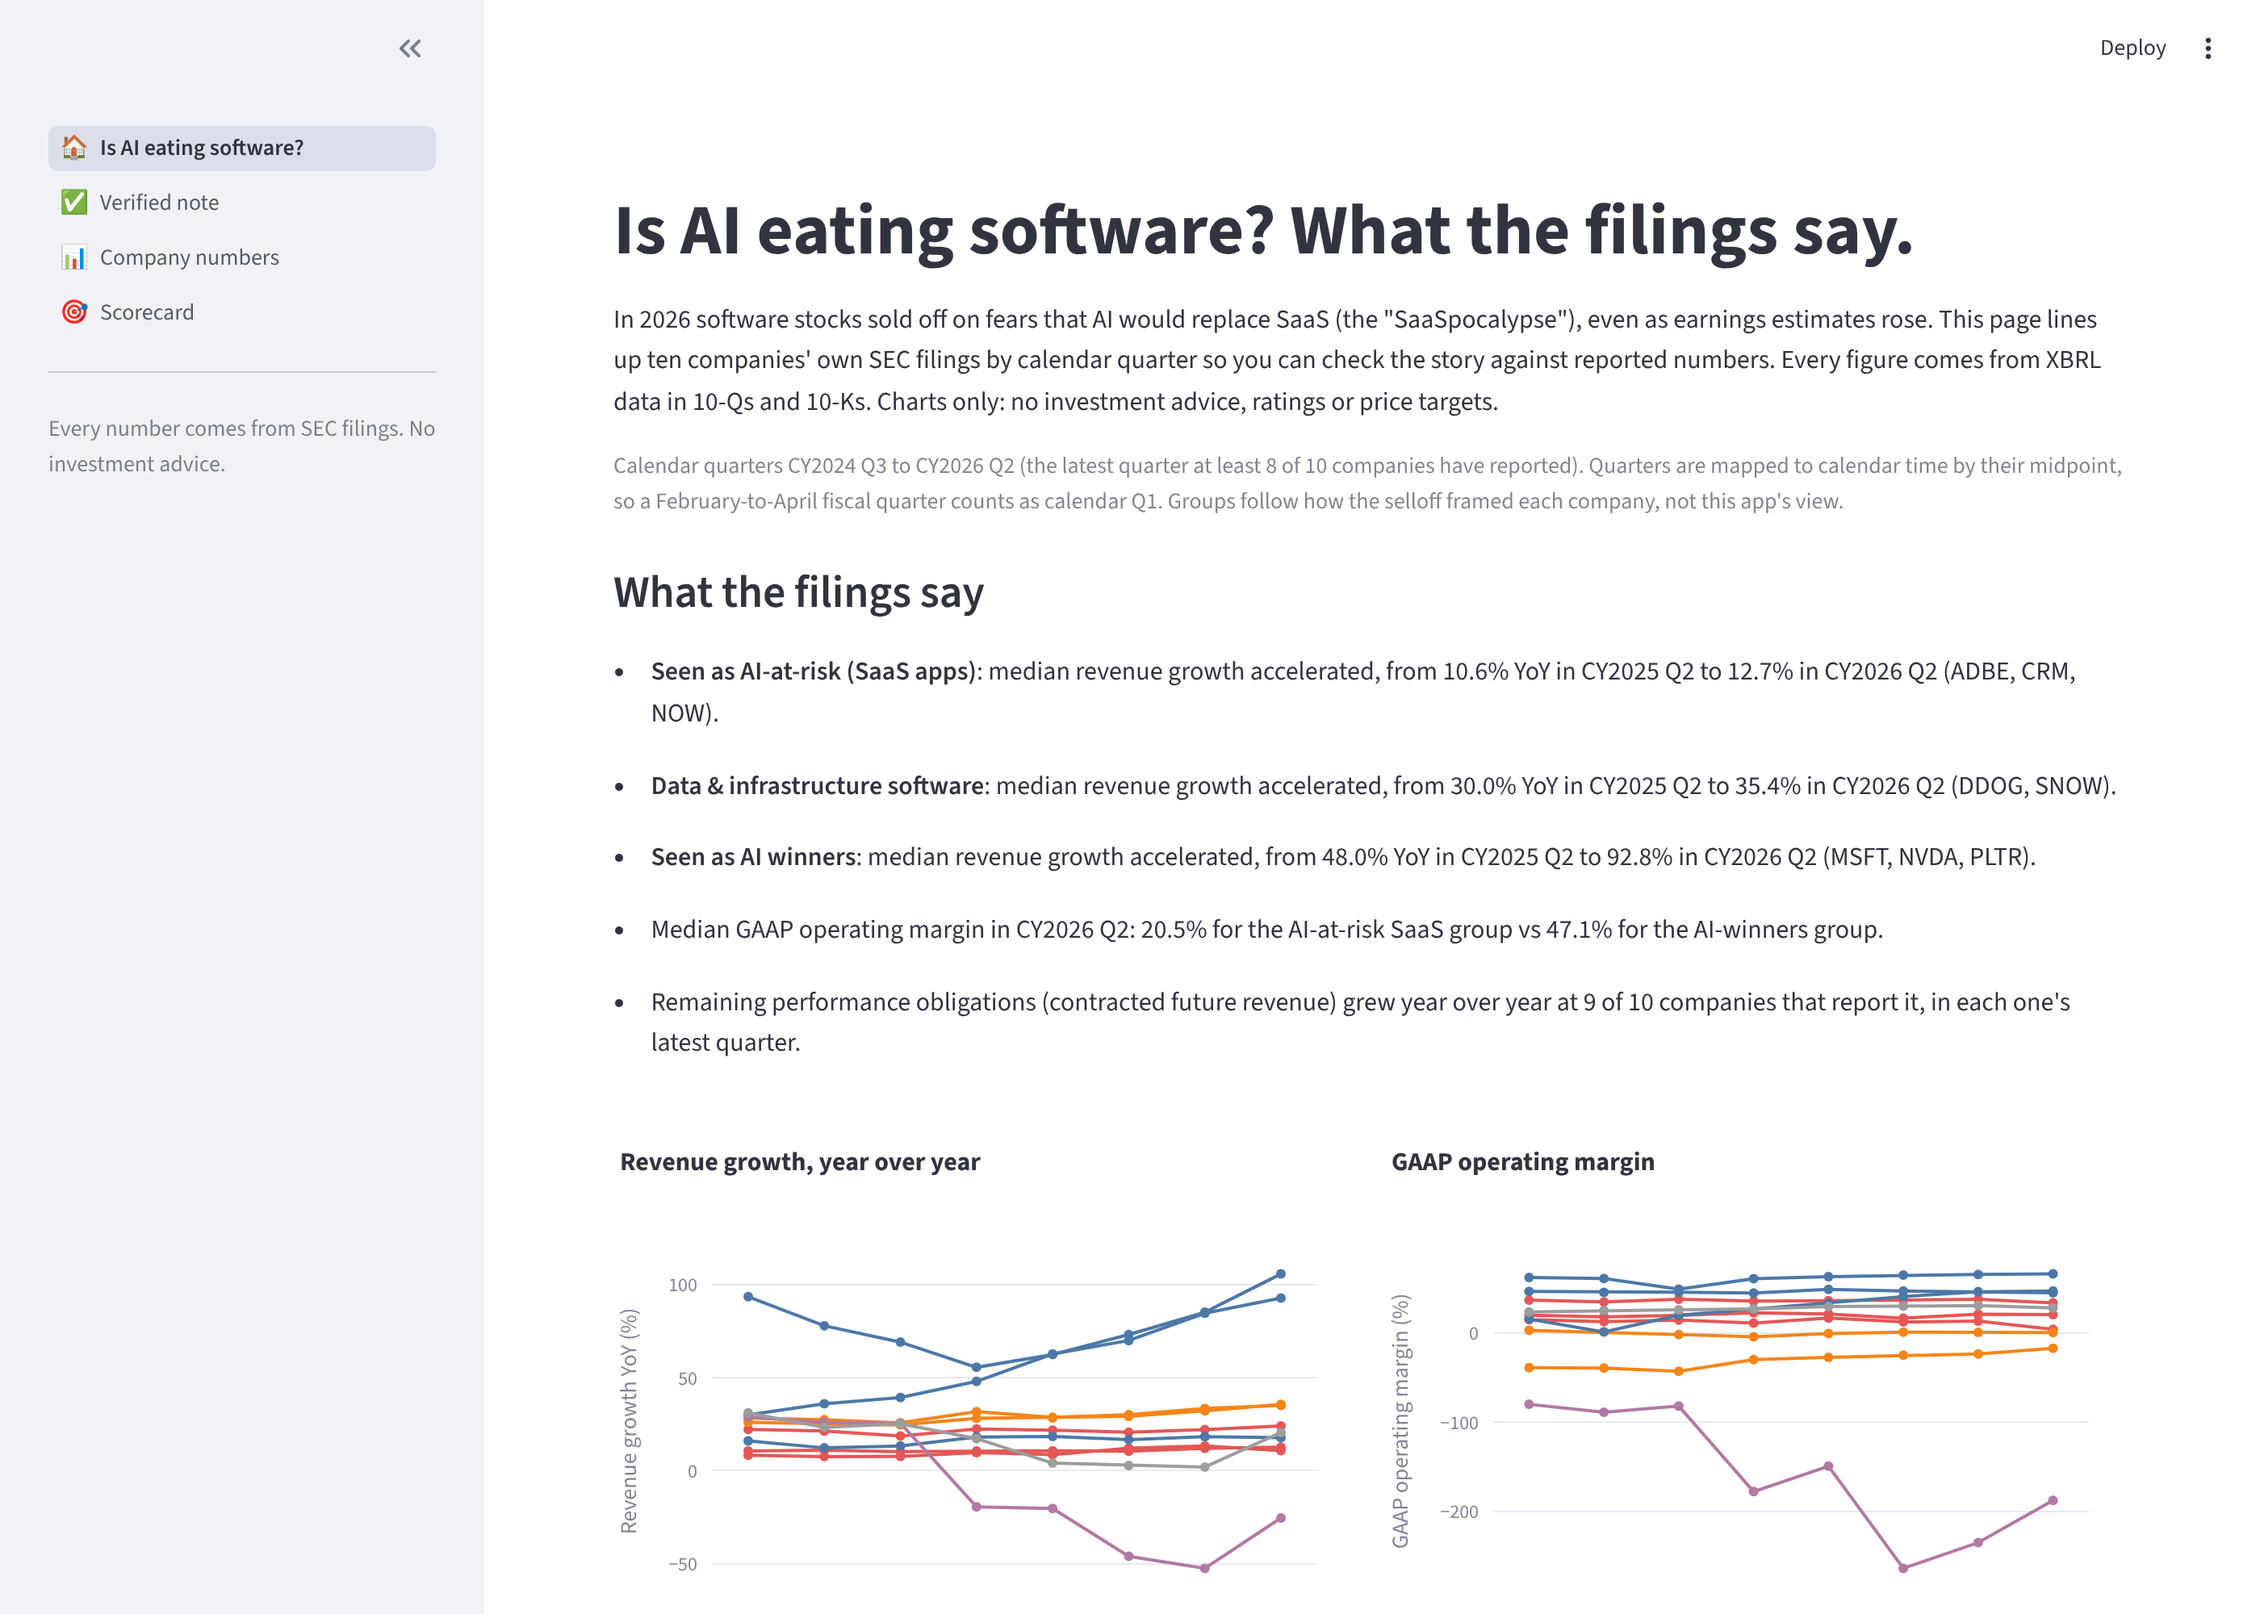
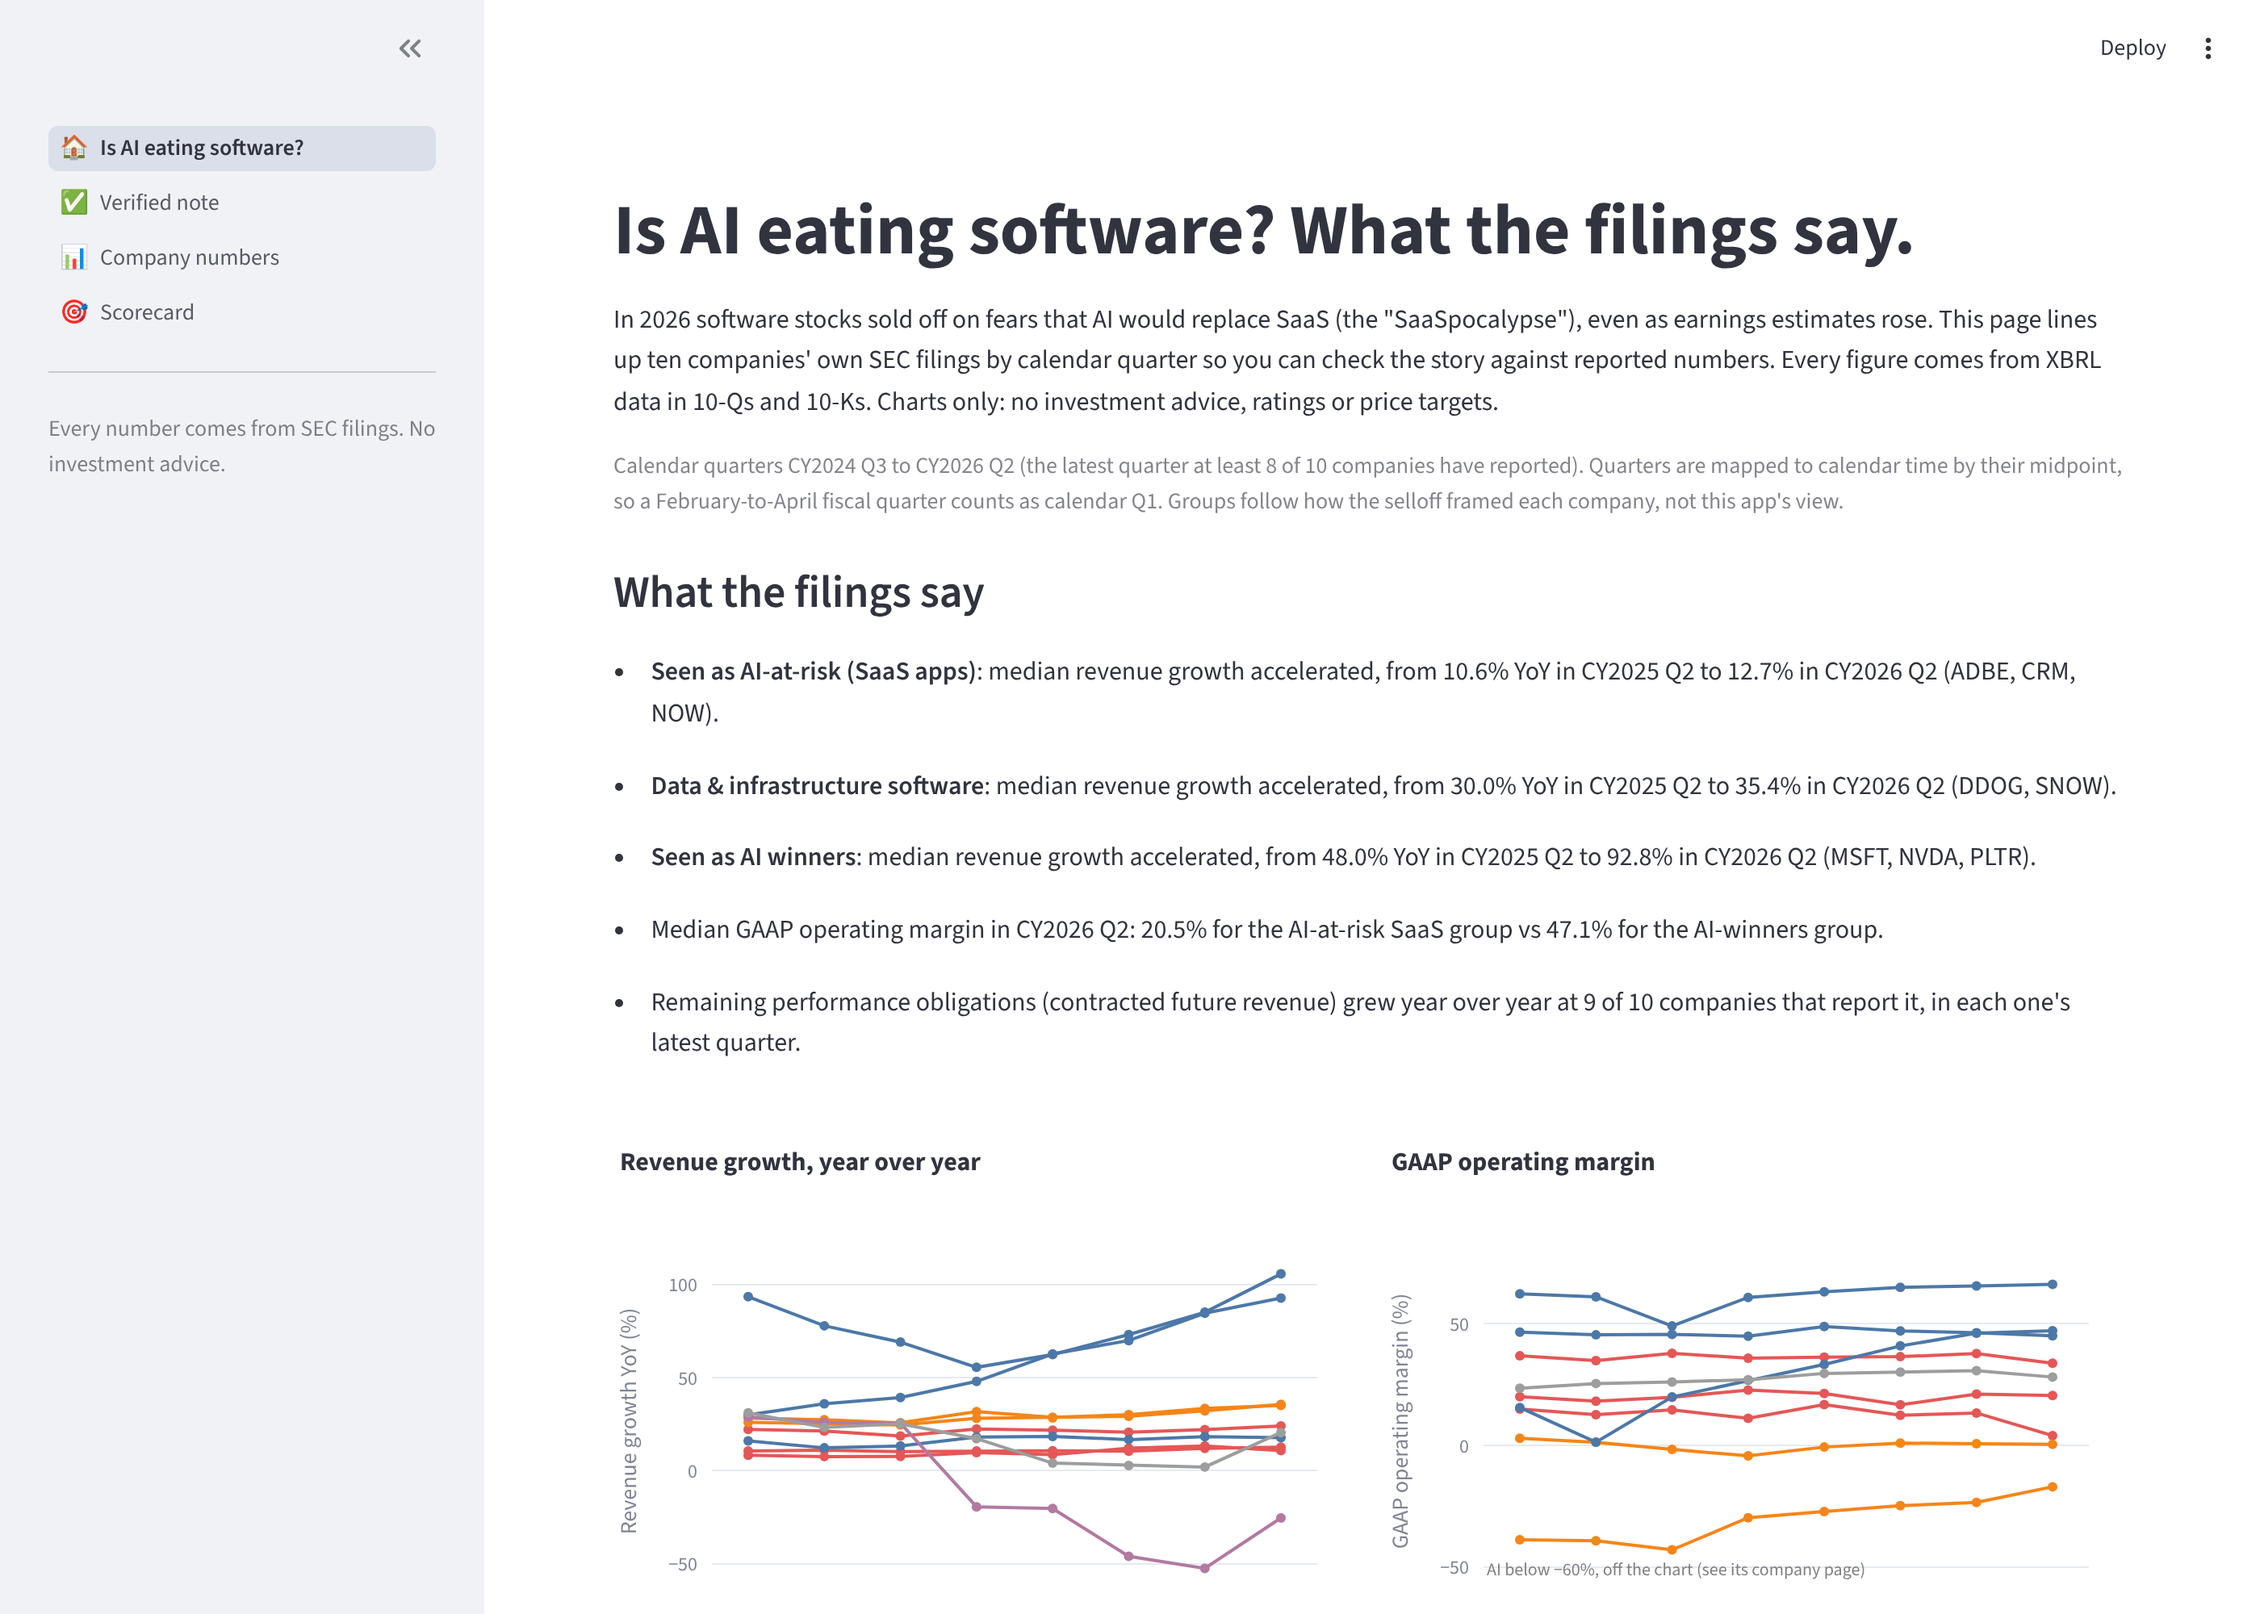
Milestone 4 complete: scorecard/note page polish, screenshots, README deploy notes
Claude-Session: https://claude.ai/code/session_01S9fLmpKsRyZa7ZCu8gw1hq

Changed region(s): [[0.6525, 0.775, 0.9321, 0.992]]

diff --git a/pages/scorecard.py b/pages/scorecard.py
@@ -45,11 +45,14 @@ inj_total = inj.injected.sum()
 overall_catch = inj.caught.sum() / inj_total if inj_total else None
 
 c1, c2, c3, c4 = st.columns(4)
-c1.metric("Company-quarters", r["company_quarters"], f"{len(r['tickers'])} tickers", delta_color="off")
-c2.metric("Numeric claims verified", f"{r['numeric']['verified_pct']}%", f"of {r['numeric']['claims']}", delta_color="off")
-c3.metric("Quotes matched verbatim", f"{r['quote']['match_pct']}%", f"of {r['quote']['claims']}", delta_color="off")
-c4.metric("Injected errors caught", f"{overall_catch:.1%}" if overall_catch is not None else "—",
-          f"of {inj_total}", delta_color="off")
+c1.metric("Company-quarters", r["company_quarters"])
+c1.caption(f"{len(r['tickers'])} tickers × last 5 quarters")
+c2.metric("Numeric claims verified", f"{r['numeric']['verified_pct']}%")
+c2.caption(f"of {r['numeric']['claims']} numeric claims")
+c3.metric("Quotes matched verbatim", f"{r['quote']['match_pct']}%")
+c3.caption(f"of {r['quote']['claims']} quotes")
+c4.metric("Injected errors caught", f"{overall_catch:.1%}" if overall_catch is not None else "—")
+c4.caption(f"of {inj_total} injected errors")
 st.caption(f"{r['claims']} claims in total: " + ", ".join(f"{v} {k}" for k, v in r["status_counts"].items()) + ".")
 
 st.subheader("Numeric accuracy")
@@ -64,7 +67,10 @@ with b:
     fig = px.bar(df, x="fye_group", y="verified_pct", text="claims", range_y=[0, 100],
                  labels={"fye_group": "", "verified_pct": "% verified"}, title="By fiscal calendar (bar label = claims)")
     st.plotly_chart(fig, width="stretch")
-st.dataframe(pd.DataFrame(r["numeric_q4_vs_other"]).rename(columns={"q": "quarter type"}), hide_index=True, width="stretch")
+RENAME = {"q": "quarter type", "claims": "claims", "verified_pct": "verified %", "mismatch_pct": "mismatch %",
+          "unsupported_pct": "unsupported %"}
+st.dataframe(pd.DataFrame(r["numeric_q4_vs_other"]).rename(columns=RENAME), hide_index=True, width="stretch")
+st.caption("Q4 figures are derived (full year − 9-month YTD from the 10-K), so they are the riskiest numbers in the data layer.")
 
 st.subheader("Does the verifier catch errors?")
 st.markdown("Each verified claim is corrupted in a known way and re-checked. Injections that happen to produce a "

diff --git a/pages/note.py b/pages/note.py
@@ -119,8 +119,7 @@ s = note["summary"]
 bs = s["by_status"]
 m1, m2, m3, m4 = st.columns(4)
 pct = s["numeric_verified_pct"]
-m1.metric("Numeric claims verified", f"{s['numeric_verified']}/{s['numeric']}", f"{pct:.0%}" if pct is not None else None,
-          delta_color="off")
+m1.metric("Numeric claims verified", f"{s['numeric_verified']}/{s['numeric']}" + (f" ({pct:.0%})" if pct is not None else ""))
 m2.metric("⚠ Mismatches", bs.get("mismatch", 0))
 m3.metric("◦ Sourced (qualitative)", bs.get("sourced", 0))
 m4.metric("✗ Unsupported", bs.get("unsupported", 0))

diff --git a/README.md b/README.md
@@ -21,6 +21,8 @@ Showcase tickers: CRM, NOW, ADBE, SNOW, DDOG, NVDA, MSFT, PLTR, AI (C3 AI), NDAQ
 
 ![Verified note](docs/note.png)
 
+![Scorecard](docs/scorecard.png)
+
 ## Scorecard headline
 
 <!-- SCORECARD:START -->
@@ -118,7 +120,7 @@ Tests run in about a second on saved SEC samples (`tests/samples/`) with canned 
 ## Deploy (Streamlit Community Cloud)
 
 1. Go to share.streamlit.io, sign in with GitHub, then **Create app** → **Deploy a public app from GitHub**.
-2. Set Repository `KC31415/earnings-desk`, Branch `main`, Main file `app.py`.
+2. Set Repository `KC31415/earnings-desk`, Branch = the repo's default branch (rename it to `main` under Settings → Branches if you like), Main file `app.py`.
 3. Under **Advanced settings**, choose Python 3.11 and paste the secrets below.
 
 | Secret | Where | Required |
